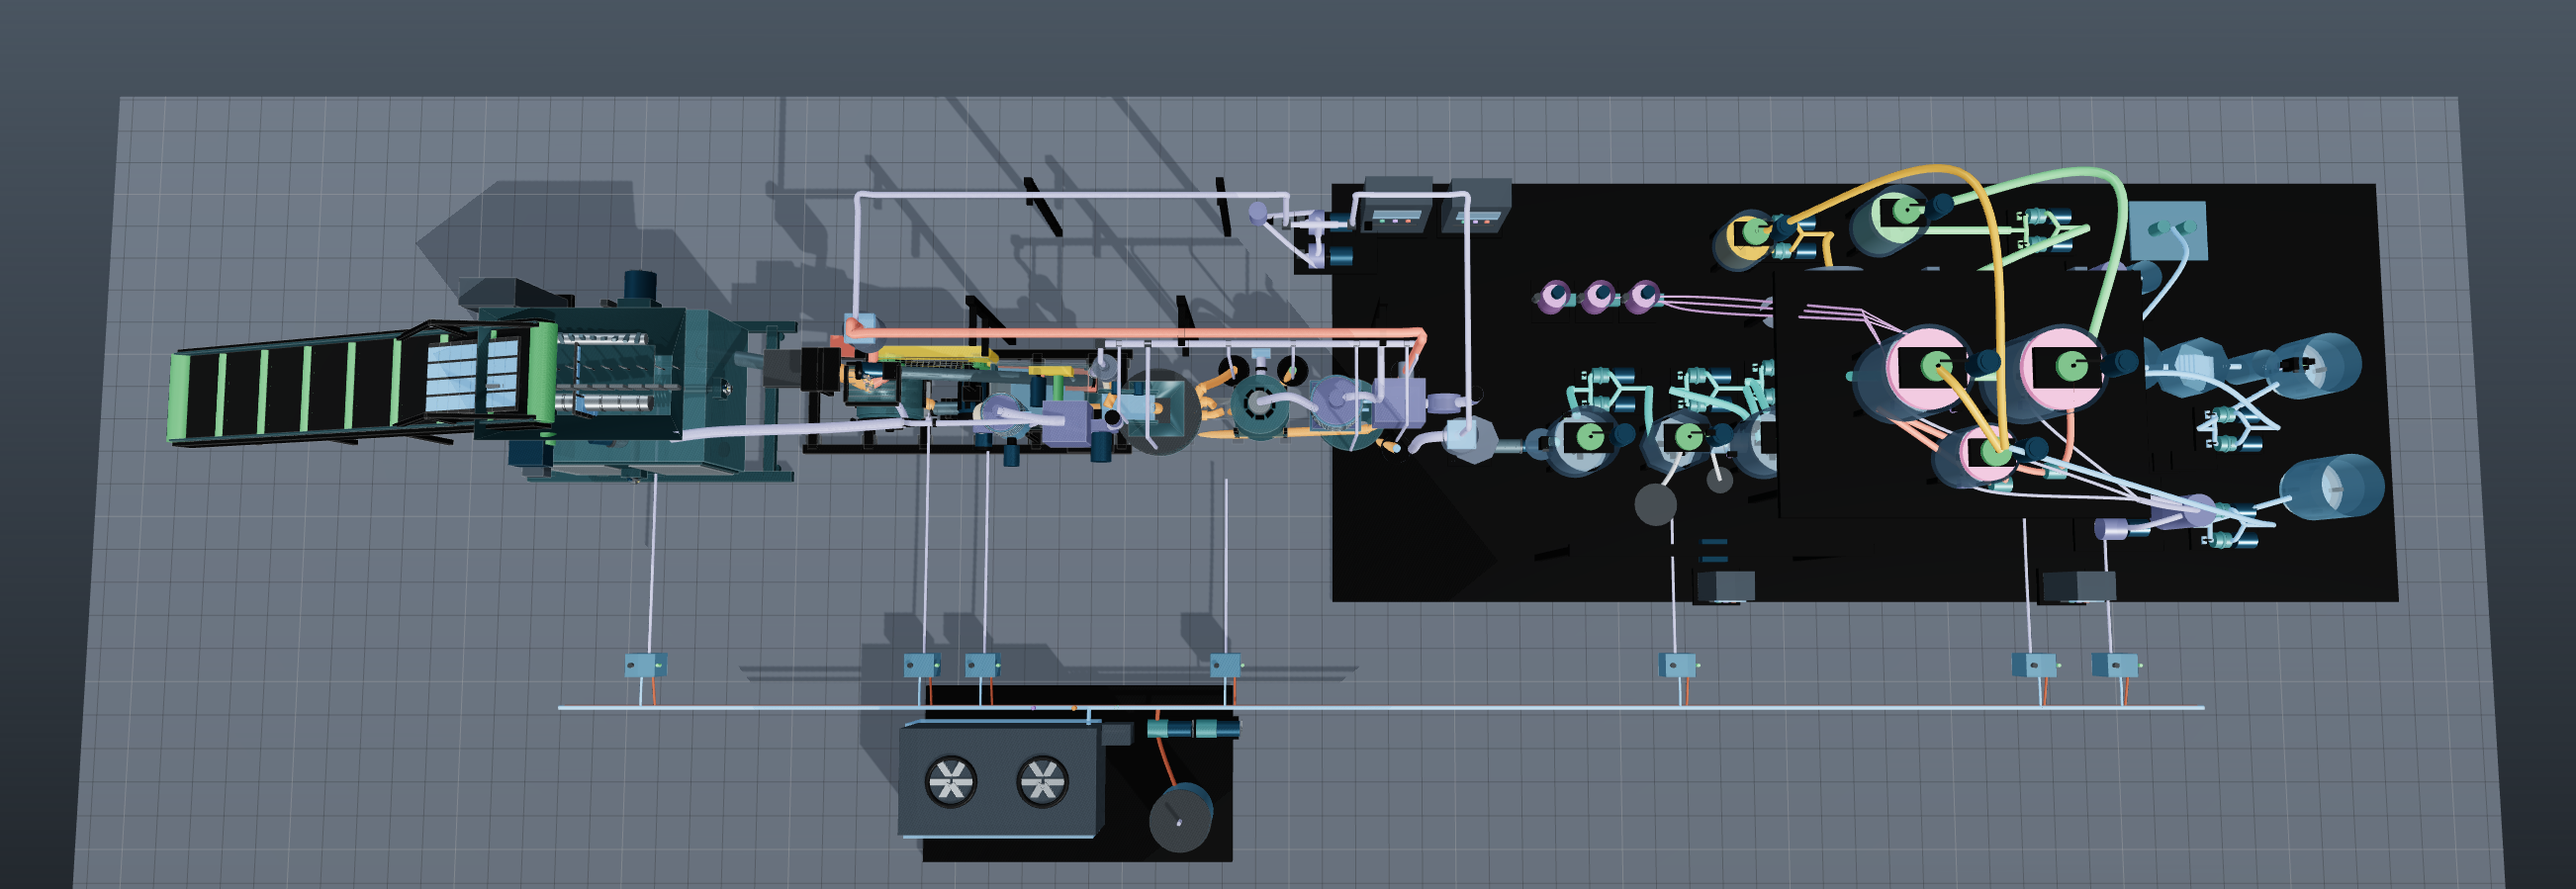
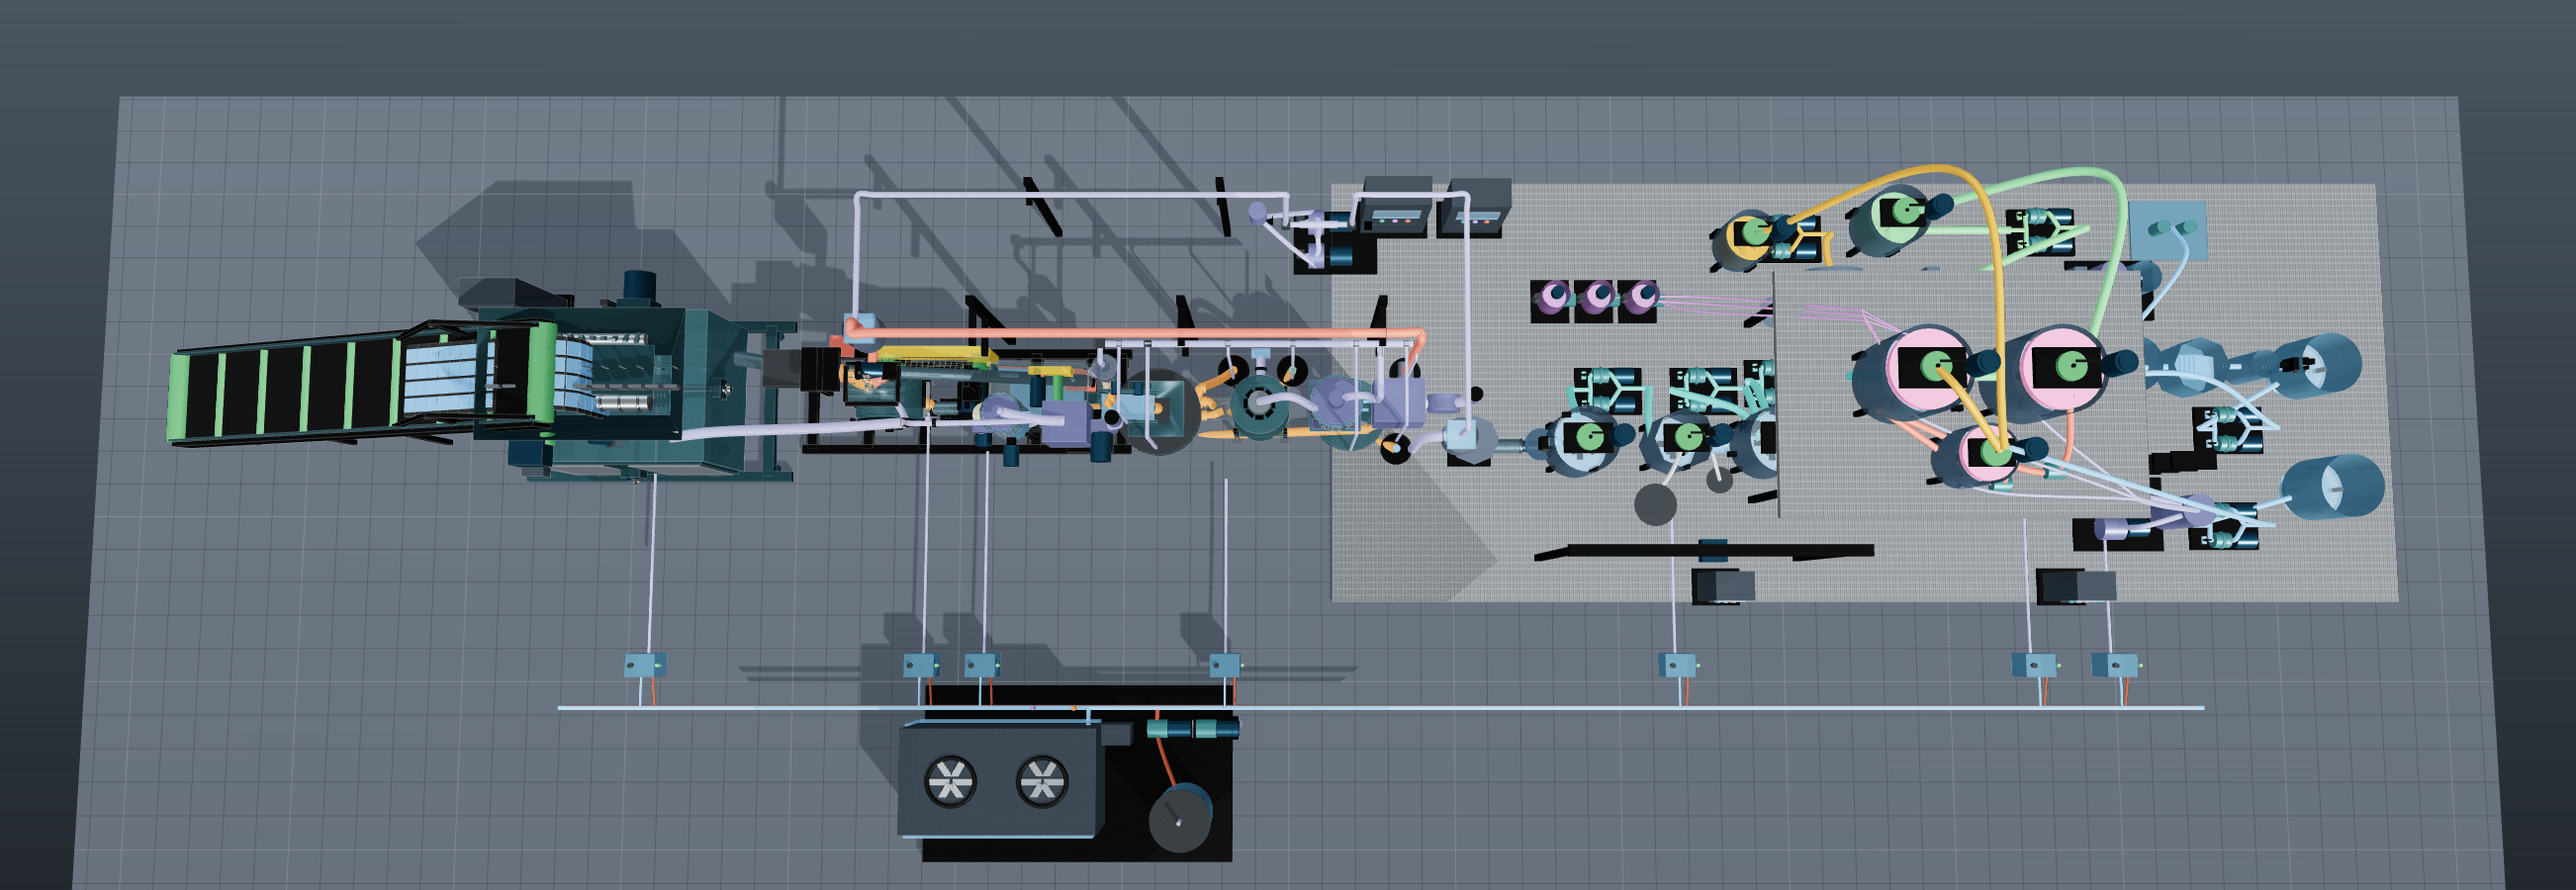
습식부 데크를 밝은 회색 강재 그레이팅으로 바꾼다
평면에서 습식부 데크가 검은 판으로 크게 잡혀 그 위 장비를 눌러 보이게 했다.
원인은 렌더 오류가 아니라 재질이다 — material.frame 은 --muted(dark 토큰에서
rgb 47,47,47)에 metalness 0.76 이라, 환경맵이 없는 이 씬에서는 반사할 것이
없어 거의 검게 떨어진다. 평면 렌더에서 데크 영역 휘도를 재보면 L≈15 였다.

아연도 그레이팅 재질을 새로 만들어 두 데크에 건다.

- 색은 --plant-neutral-metal 과 --muted-foreground 을 섞어 L≈160 에 앉힌다.
  neutral-metal 단독은 L≈190 까지 올라가 프레임에서 제일 밝은 면이 돼 버리고,
  muted-foreground 단독(L≈139)은 스튜디오 배경(L≈114)과 덜 떨어진다.
- metalness 를 0.22 로 낮춰 반사 대신 확산광이 지배하게 한다.
- 베어바 30 mm · 크로스바 100 mm 격자를 256×256 캔버스로 그려 map 으로 건다.
  데크마다 실치수가 다르므로 repeat 을 치수에서 계산해 바 피치를 맞춘다.
  가까이서는 그레이팅으로, 멀리서는 밉맵 평균인 균일한 회색으로 읽힌다.

적용 대상은 통합 습식·유틸리티 데크(16.15 × 6.45 m)와 ST-201 2층 부유선별
그레이팅(5.10 × 3.45 m). 후자는 이름부터 그레이팅인데 재질만 판이었다.

평면 렌더 데크 영역 중앙값 L 15 → 159. 다섯 개 표시 모드(유동·컷어웨이·
분해·산출물 검사·분쇄운전) 전환에 오류 없음. 3D 뷰포트는 VIEWPORT_SCHEME 으로
두 테마 모두 dark 토큰에 고정돼 있어 light 테마에서도 같은 회색으로 나온다.

전경 렌더 3장도 같이 다시 뽑았다.

Claude-Session: https://claude.ai/code/session_01VqrMdsqG9TwrYpTzJuKaK7

diff --git a/docs/drawings/pv-recycling-miniapp.html b/docs/drawings/pv-recycling-miniapp.html
@@ -17357,6 +17357,62 @@ window.__HSG_CANNON__=Object.freeze({"AABB":AABB,"ArrayCollisionMatrix":ArrayCol
     wetFrothMaterial.opacity = 0.42;
     wetFrothMaterial.depthWrite = false;
 
+    // ---- 밝은 회색 강재 그레이팅 데크 ------------------------------------
+    // 데크가 material.frame(= --muted, dark 테마에서 rgb 47,47,47 · metalness 0.76)
+    // 이라 환경맵이 없는 이 씬에서는 거의 검은 판으로 렌더된다. 위에서
+    // 내려다본 평면에서 16 m 짜리 검정 사각형이 그 위 장비를 눌러 배치가
+    // 읽히지 않았다. 아연도 그레이팅 톤(밝은 회색)으로 올리고 metalness 를
+    // 낮춰 반사 대신 확산광이 지배하게 한다. 베어바 30 mm · 크로스바 100 mm
+    // 격자는 캔버스 맵으로 그려, 가까이서는 그레이팅으로 멀리서는 밉맵
+    // 평균인 균일한 밝은 회색으로 읽혀 평면 가독성을 둘 다 만족시킨다.
+    const GRATING_TILE_M = 0.30;        // 캔버스 한 장이 덮는 실제 치수
+    const GRATING_BEARING_MM = 30;      // 베어바 피치
+    const GRATING_CROSS_MM = 100;       // 크로스바 피치
+    const GRATING_BAR_MM = 5;           // 바 두께
+    const GRATING_OPEN_LEVEL = 0.62;    // 개구부 밝기(바 대비) — 아래로 그늘진다
+    // 3D 뷰포트는 VIEWPORT_SCHEME 으로 두 테마 모두 dark 토큰에 고정돼 있으므로,
+    // 색은 스튜디오 배경(L≈114) 하나만 상대로 잡으면 된다. --plant-neutral-metal
+    // 단독은 L≈190 까지 올라가 프레임에서 제일 밝은 면이 돼 버리고, --muted-foreground
+    // 단독(L≈139)은 배경과 덜 떨어진다. 둘을 섞어 L≈160 — 배경보다 확실히 밝고
+    // 중간톤 장비가 그 위에서 읽히는 아연도 회색에 앉힌다.
+    const gratingColor = mixColor(color.neutralMetal, color.steel, 0.45);
+    const gratingSource = (() => {
+      const canvas = document.createElement("canvas");
+      canvas.width = 256;
+      canvas.height = 256;
+      const paint = canvas.getContext("2d");
+      const tileMm = GRATING_TILE_M * 1000;
+      const bar = Math.max(2, Math.round(GRATING_BAR_MM * canvas.width / tileMm));
+      const open = Math.round(255 * GRATING_OPEN_LEVEL);
+      paint.fillStyle = `rgb(${open}, ${open}, ${open})`;
+      paint.fillRect(0, 0, canvas.width, canvas.height);
+      paint.fillStyle = "#ffffff";      // 바 상면 — material.color 가 착색한다
+      const bearing = tileMm / GRATING_BEARING_MM;
+      const cross = tileMm / GRATING_CROSS_MM;
+      for (let i = 0; i < bearing; i += 1) paint.fillRect(Math.round(i * canvas.width / bearing), 0, bar, canvas.height);
+      for (let i = 0; i < cross; i += 1) paint.fillRect(0, Math.round(i * canvas.height / cross), canvas.width, bar);
+      return canvas;
+    })();
+
+    // 데크마다 실제 치수가 다르므로 반복 횟수를 따로 잡아야 바 피치가 일정하다.
+    function gratingMaterial(widthM, depthM) {
+      const texture = new THREE.CanvasTexture(gratingSource);
+      texture.colorSpace = THREE.SRGBColorSpace;
+      texture.wrapS = THREE.RepeatWrapping;
+      texture.wrapT = THREE.RepeatWrapping;
+      texture.repeat.set(widthM / GRATING_TILE_M, depthM / GRATING_TILE_M);
+      texture.anisotropy = renderer.capabilities.getMaxAnisotropy();
+      const deck = new THREE.MeshStandardMaterial({
+        color: gratingColor,
+        map: texture,
+        roughness: 0.62,
+        metalness: 0.22,
+        side: THREE.DoubleSide
+      });
+      deck.userData.baseOpacity = 1;
+      return deck;
+    }
+
     function wetMesh(parent, geometry, sourceMaterial, position, name, rotation = null) {
       const mesh = new THREE.Mesh(geometry, sourceMaterial);
       mesh.position.set(position[0], position[1], position[2]);
@@ -17532,7 +17588,7 @@ window.__HSG_CANNON__=Object.freeze({"AABB":AABB,"ArrayCollisionMatrix":ArrayCol
 
     // Expanded non-safety process foundation: dry return, wet transfer,
     // reagent/air utilities, flotation, dewatering and process-water recovery.
-    wetBox(unifiedWet, [16.15, 0.08, 6.45], [13.88, -0.04, -0.18], material.frame, "통합 습식·유틸리티 공정 기초");
+    wetBox(unifiedWet, [16.15, 0.08, 6.45], [13.88, -0.04, -0.18], gratingMaterial(16.15, 6.45), "통합 습식·유틸리티 공정 그레이팅 데크");
 
     // 두 진공 지관은 VP-401 스키드(z = -2.46) 위 전용 랙 티어로 올려 직교로 내린다.
     const VAC_RACK_Y = 3.16;
@@ -17674,7 +17730,7 @@ window.__HSG_CANNON__=Object.freeze({"AABB":AABB,"ArrayCollisionMatrix":ArrayCol
     });
 
     // Two-level flotation deck: FC-202 is cleaner and FC-203 is scavenger.
-    wetBox(unifiedWet, [5.10, 0.14, 3.45], [14.46, 2.44, 0.18], material.frame, "ST-201 2층 부유선별 그레이팅");
+    wetBox(unifiedWet, [5.10, 0.14, 3.45], [14.46, 2.44, 0.18], gratingMaterial(5.10, 3.45), "ST-201 2층 부유선별 그레이팅");
     for (const x of [12.18, 16.72]) for (const z of [-1.20, 1.50]) wetBox(unifiedWet, [0.10, 2.48, 0.10], [x, 1.20, z], material.frame, "ST-201 2층 지지기둥");
     for (let step = 0; step < 8; step += 1) wetBox(unifiedWet, [0.62, 0.06, 0.26], [16.98 + step * 0.12, 0.18 + step * 0.28, 1.08], material.frame, "ST-201 접근계단");
     const fc201 = flotationCell("FC-201", 13.38, 0.08, 0.58, 1.34, 420, 0.060, DRIVE_RPM.flotationRougher);

diff --git a/docs/drawings/renders/README.md b/docs/drawings/renders/README.md
@@ -6,9 +6,13 @@
 
 | 파일 | 시점 | 크기 |
 |---|---|---|
-| `plant-view-top.png` | 평면 — 거의 수직(85°) 하향 | 2604 × 899 |
+| `plant-view-top.png` | 평면 — 거의 수직(85°) 하향 | 2604 × 900 |
 | `plant-view-side-a.png` | 측면 A — +z 에서 −z 를 봄. 투입부가 왼쪽 | 2604 × 659 |
 | `plant-view-side-b.png` | 측면 B — −z 에서 +z 를 봄. 측면 A 의 반대편 | 2604 × 659 |
+
+습식부 데크는 밝은 회색 강재 그레이팅이다. 이전 판에서는 `material.frame`(metalness 0.76 · 환경맵 없음)
+이라 평면에서 L≈15 의 검은 판으로 잡혀 그 위 장비를 눌렀다. 지금은 L≈160 으로, 스튜디오 배경(L≈114)
+보다 밝고 중간톤 장비가 그 위에서 읽힌다.
 
 ## 촬영 기준
 
